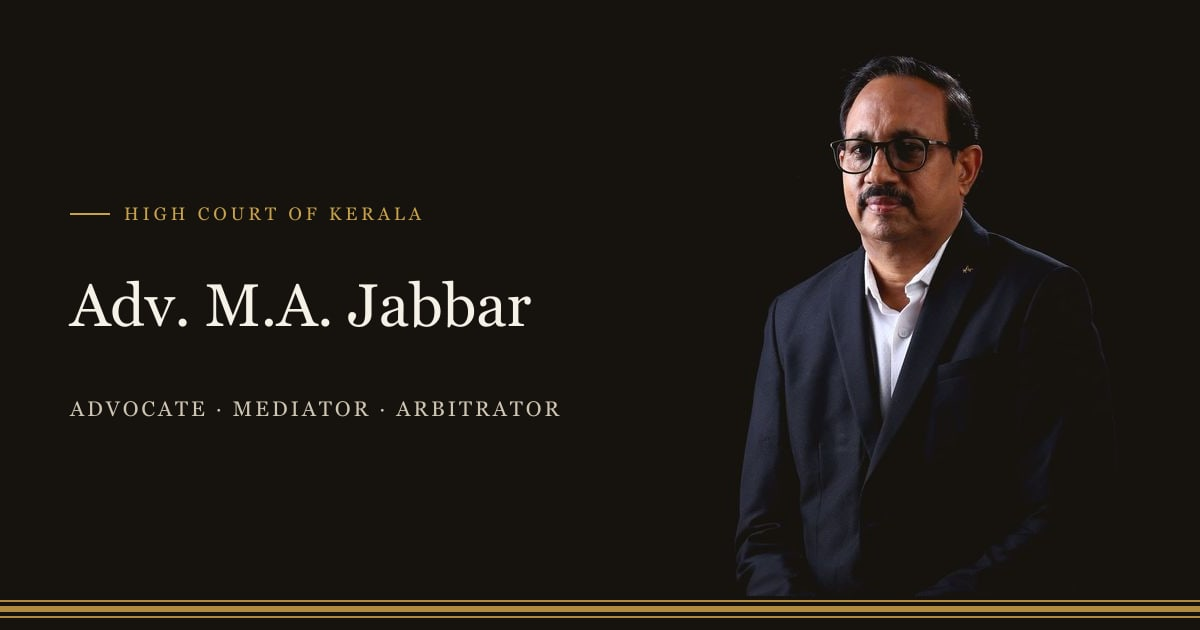
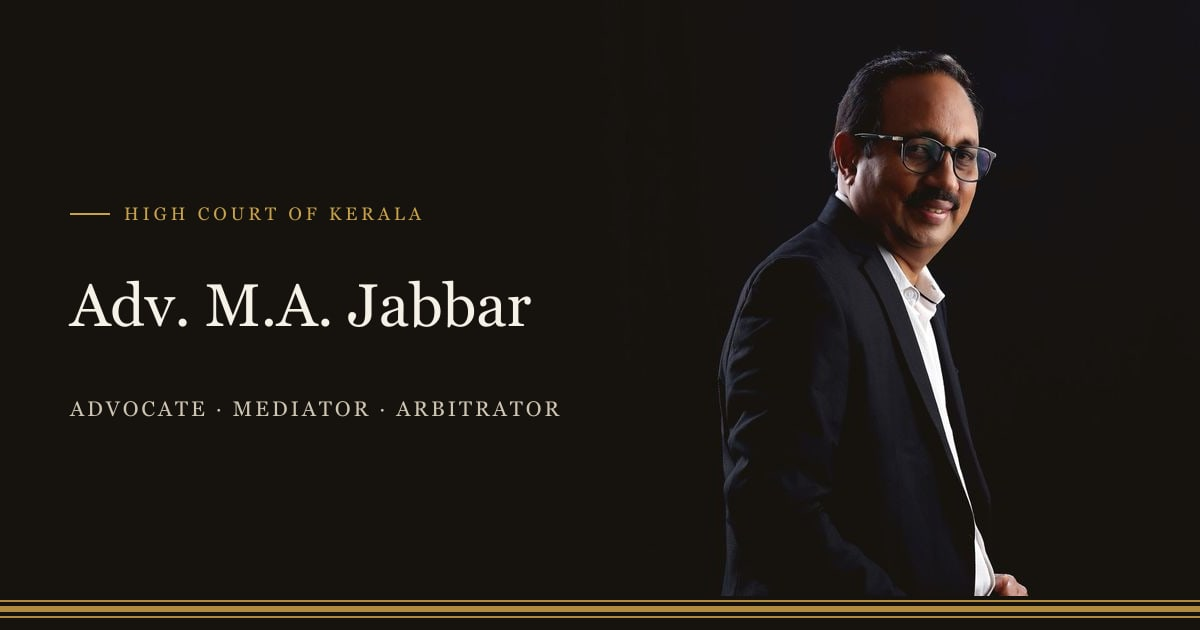
Restore footer disclaimer, swap photos uncropped, add second quote band
Footer disclaimer
- Footer disclaimer box back on (SHOW_FOOTER_DISCLAIMER = true) with the
  client's wording: "This website is for informational purposes only as
  per BCI rules. No advertisement or solicitation. Emblems/logos of
  Government of India are not used."

Photos
- Hero now 6.jpeg (seated, sideways); "Public service & social
  engagement" now 3.jpeg in black and white
- Photos are never cropped: images keep their original proportions and
  every photo box sizes itself from the image (height: auto); the image
  script no longer crops
- Image filenames include a content hash so a changed photo always gets
  a new URL (no stale browser / Next.js image cache)

Second quote band
- New maroon quote band after Areas of Practice, mirrored layout (photo
  on the right), using 2.jpeg: "Behind every dispute are people,
  perspectives, and interests..."
- Shared QuoteBlock type; Sanity schema, GROQ query and seed updated

Changed region(s): [[0.5858, 0.0603, 0.8942, 0.9651], [0.8017, 0.8444, 0.8633, 0.9651]]

diff --git a/src/app/(site)/globals.css b/src/app/(site)/globals.css
@@ -120,11 +120,12 @@ p { margin: 0; }
 .tablist button[aria-selected="true"] { background: var(--maroon); color: var(--paper); }
 .tabnav__toggle { display: grid; place-items: center; background: transparent; border: 1px solid var(--ink-2); }
 
-/* The portrait's backdrop is pre-blended to --ink (scripts/make-images.mjs), so the
+/* Photos are never cropped: every img keeps its natural proportions (height: auto).
+   The portrait's backdrop is pre-blended to --ink (scripts/make-images.mjs), so the
    photo has no visible edge: it sits on the kasavu band and in front of the gold frame. */
-.hero__photo { position: relative; width: 480px; aspect-ratio: 1400 / 1790; flex-shrink: 0; align-self: flex-end; margin-bottom: -64px; }
+.hero__photo { position: relative; width: 480px; flex-shrink: 0; align-self: flex-end; margin-bottom: -64px; }
 .hero__photo::before { content: ''; position: absolute; inset: -26px -26px 90px 26px; border: 1px solid var(--gold); }
-.hero__photo img { position: relative; width: 100%; height: 100%; object-fit: cover; }
+.hero__photo img { position: relative; width: 100%; height: auto; }
 .badge { position: absolute; left: -28px; bottom: 120px; padding: 16px 22px; background: var(--maroon); color: var(--paper); }
 .badge small { display: block; font-size: 12px; letter-spacing: .2em; text-transform: uppercase; color: var(--cream); }
 .badge strong { font: 500 20px var(--f-display); }
@@ -147,9 +148,9 @@ p { margin: 0; }
 .about__sub { font-size: 18px; color: var(--muted); margin-top: 8px; }
 .about__bio { display: grid; grid-template-columns: 1fr 1fr; gap: 16px 40px; font-size: 17px; line-height: 1.7; color: var(--ink-2); }
 .about__side { grid-column: 3; display: flex; flex-direction: column; gap: 38px; }
-.portrait { position: relative; aspect-ratio: 4 / 5; }
+.portrait { position: relative; }
 .portrait::before { content: ''; position: absolute; inset: 14px -14px -14px 14px; border: 1px solid var(--kasavu); }
-.portrait img { position: relative; width: 100%; height: 100%; object-fit: cover; object-position: 50% 25%; }
+.portrait img { position: relative; width: 100%; height: auto; }
 .facts { border-top: 2px solid var(--ink); }
 .fact { padding: 16px 0; border-bottom: 1px solid var(--line); }
 .fact dt { font-size: 12px; letter-spacing: .2em; text-transform: uppercase; color: var(--gold-dk); }
@@ -188,12 +189,16 @@ p { margin: 0; }
 /* Quote */
 .quote { background: var(--maroon); padding-block: 96px; }
 .quote__inner { display: flex; align-items: center; justify-content: center; gap: 80px; }
-.quote__photo { position: relative; width: 320px; aspect-ratio: 4 / 5; flex-shrink: 0; }
+.quote__photo { position: relative; width: 320px; flex-shrink: 0; }
 .quote__photo::before { content: ''; position: absolute; inset: -18px 18px 18px -18px; border: 1px solid var(--gold); }
-.quote__photo img { position: relative; width: 100%; height: 100%; object-fit: cover; }
+.quote__photo img { position: relative; width: 100%; height: auto; }
 .quote blockquote { max-width: 720px; margin: 0; display: flex; flex-direction: column; align-items: flex-start; gap: 28px; }
 .quote p { font: italic 500 clamp(22px, 2.4vw, 34px)/1.45 var(--f-display); color: var(--paper); }
 .quote cite { font-style: normal; font-size: 13px; letter-spacing: .24em; text-transform: uppercase; color: var(--cream); }
+/* Second quote band: photo on the right, frame mirrored; landscape photo gets a wider box. */
+.quote--reverse .quote__inner { flex-direction: row-reverse; }
+.quote--reverse .quote__photo { width: 400px; }
+.quote--reverse .quote__photo::before { inset: -18px -18px 18px 18px; }
 
 /* Practice grid */
 .practice { display: grid; grid-template-columns: repeat(4, 1fr); gap: 1px; background: var(--line-2); border: 1px solid var(--line-2); }
@@ -224,9 +229,9 @@ p { margin: 0; }
 
 /* Beyond */
 .beyond { display: flex; gap: 80px; align-items: center; }
-.beyond__photo { position: relative; width: 460px; height: 580px; flex-shrink: 0; }
+.beyond__photo { position: relative; width: 460px; flex-shrink: 0; }
 .beyond__photo::before { content: ''; position: absolute; inset: -22px 22px 22px -22px; border: 1px solid var(--kasavu); }
-.beyond__photo img { position: relative; width: 100%; height: 100%; object-fit: cover; object-position: 50% 55%; }
+.beyond__photo img { position: relative; width: 100%; height: auto; }
 .beyond__copy { display: flex; flex-direction: column; gap: 24px; }
 .beyond__copy > p { font-size: 17px; line-height: 1.7; color: var(--ink-2); }
 .timeline { list-style: none; margin: 0; padding: 0; border-top: 1px solid var(--line-2); }
@@ -293,6 +298,8 @@ html[data-disclaimer="pending"] body { overflow: hidden; }
   .hero .container { gap: 48px; }
   .hero__photo { width: 380px; }
   .tabcard { width: auto; flex: 1; }
+  .quote__inner { gap: 56px; }
+  .quote--reverse .quote__photo { width: 340px; }
   .roles__body { grid-template-columns: 270px minmax(0, 1fr); }
   .roles__panel { padding: 36px 32px; }
   .roles__cols { grid-template-columns: minmax(0, 1fr); gap: 28px; }
@@ -387,6 +394,9 @@ html[data-disclaimer="pending"] body { overflow: hidden; }
   .quote__inner { flex-direction: column; align-items: flex-start; gap: 40px; }
   .quote__photo { width: 200px; margin-left: 12px; }
   .quote__photo::before { inset: -12px 12px 12px -12px; }
+  .quote--reverse .quote__inner { flex-direction: column; }
+  .quote--reverse .quote__photo { width: 260px; margin-left: 0; }
+  .quote--reverse .quote__photo::before { inset: -12px -12px 12px 12px; }
   .quote blockquote { gap: 20px; }
   .quote cite { font-size: 11px; }
 
@@ -410,7 +420,7 @@ html[data-disclaimer="pending"] body { overflow: hidden; }
   .steps p { font-size: 15px; }
 
   .beyond { flex-direction: column; align-items: stretch; gap: 22px; }
-  .beyond__photo { width: 100%; height: 420px; order: 1; }
+  .beyond__photo { width: 100%; order: 1; }
   .beyond__photo::before { display: none; }
   .beyond__copy { display: contents; }
   .beyond__copy > .eyebrow, .beyond__copy > h2 { order: 0; }

diff --git a/src/content/site.ts b/src/content/site.ts
@@ -56,11 +56,10 @@ export const siteContent: SiteContent = {
       heading: 'Turning conflict\ninto *cooperation*,\nthrough dialogue.',
       lead: 'Advocate at the High Court of Kerala. IMI and IICA certified mediator, corporate mediator with the Ministry of Corporate Affairs, and empanelled arbitrator with NSE and BSE.',
       image: {
-        src: '/images/hero-portrait-seated.jpg',
+        src: '/images/hero-portrait-seated-side-48cea9e5.jpg',
         alt: 'Adv. M.A. Jabbar',
         width: 1400,
-        height: 1790,
-        position: '50% 30%',
+        height: 1800,
       },
       badge: { label: 'Certified Mediator', value: 'IMI · IICA' },
       highlights: [
@@ -82,11 +81,10 @@ export const siteContent: SiteContent = {
         'He holds an LL.M. and an LL.B. from Mahatma Gandhi University, Kottayam, and a Post Graduate Diploma in Alternative Dispute Resolution from NALSAR University of Law, Hyderabad. His approach to mediation rests on empathy, dialogue and understanding.',
       ],
       portrait: {
-        src: '/images/about-portrait-headshot-left.jpg',
+        src: '/images/about-portrait-headshot-left-607a508f.jpg',
         alt: 'Portrait of Adv. Abdul Jabbarudeen M.',
         width: 1200,
         height: 986,
-        position: '48% 30%',
       },
       facts: [
         { label: 'Practice', value: 'High Court of Kerala' },
@@ -183,11 +181,10 @@ export const siteContent: SiteContent = {
       text: 'As India continues to build its physical infrastructure, it must also strengthen its culture of communication and collaboration — making mediation an essential pillar for peace, progress and sustainable development.',
       attribution: 'Adv. M.A. Jabbar',
       image: {
-        src: '/images/quote-portrait-hands-on-hips.jpg',
+        src: '/images/quote-portrait-hands-on-hips-2f24cac2.jpg',
         alt: 'Adv. M.A. Jabbar',
-        width: 800,
-        height: 1000,
-        position: '50% 30%',
+        width: 1000,
+        height: 1037,
       },
     },
 
@@ -205,6 +202,17 @@ export const siteContent: SiteContent = {
         { title: 'Legal Drafting & Opinions', description: 'Pleadings, petitions, affidavits, legal submissions and legal opinions.' },
         { title: 'Contract Review & Compliance', description: 'Review of agreements and regulatory requirements to identify legal issues and risks.' },
       ],
+    },
+
+    practiceQuote: {
+      text: 'Behind every dispute are people, perspectives, and interests. Mediation brings them together in dialogue, creating space for understanding and a path towards resolution.',
+      attribution: 'Adv. M.A. Jabbar',
+      image: {
+        src: '/images/quote2-portrait-headshot-front-104fbce5.jpg',
+        alt: 'Adv. M.A. Jabbar',
+        width: 1000,
+        height: 787,
+      },
     },
 
     panels: {
@@ -239,11 +247,10 @@ export const siteContent: SiteContent = {
       heading: 'Public service &\nsocial engagement',
       body: 'Alongside his legal work, Adv. M.A. Jabbar is a UN Sustainable Development Goals campaigner and human rights activist, and founded a school in Pathanapuram. From 1989 to 2018 he served the Government of Kerala as District Ophthalmic Co-ordinator under the National Programme for Control of Blindness.',
       image: {
-        src: '/images/bw-portrait-seated-side.jpg',
+        src: '/images/bw-portrait-seated-ba7f1e8f.jpg',
         alt: 'Black-and-white portrait of Adv. M.A. Jabbar',
         width: 1200,
-        height: 1543,
-        position: '40% 35%',
+        height: 1534,
       },
       timeline: [
         { label: 'Delegate — United Nations Global Meeting on Sustainable Development, Bonn, Germany', year: '2019' },
@@ -281,7 +288,7 @@ export const siteContent: SiteContent = {
       'The chambers are not responsible for any action taken based on the content of this website.',
     ],
     footerText:
-      'As per the rules of the Bar Council of India, advocates are not permitted to solicit work or advertise. This website only provides information about Adv. M.A. Jabbar (Abdul Jabbarudeen M.) and the areas of practice. It is not an advertisement, solicitation or legal advice. Using this website or contacting the chambers through it does not create an advocate–client relationship.',
+      'This website is for informational purposes only as per BCI rules. No advertisement or solicitation. Emblems/logos of Government of India are not used.',
   },
 
   // TODO: final wording reviewed by the advocate (DPDP Act, 2023 — the form collects personal data)

diff --git a/sanity/schemaTypes/homePage.ts b/sanity/schemaTypes/homePage.ts
@@ -4,6 +4,20 @@ import { HEADING_HELP, imageField, labelValueMember, titleTextMember } from './f
 const RULE_36 =
   'Bar Council of India Rule 36: state facts only. No testimonials, results, ratings, or words like "best", "top", "leading", "expert".';
 
+/** A maroon quote band: text, attribution and a photo (shown uncropped). */
+const quoteField = (name: string, title: string, group: string) =>
+  defineField({
+    name,
+    title,
+    type: 'object',
+    group,
+    fields: [
+      defineField({ name: 'text', type: 'text', rows: 4, validation: (r) => r.required() }),
+      defineField({ name: 'attribution', type: 'string' }),
+      imageField('image', 'Photo', 'Shown beside the quote at its full size — the photo is never cropped.'),
+    ],
+  });
+
 export const homePage = defineType({
   name: 'homePage',
   title: 'Home page',
@@ -89,16 +103,7 @@ export const homePage = defineType({
         }),
       ],
     }),
-    defineField({
-      name: 'quote',
-      type: 'object',
-      group: 'about',
-      fields: [
-        defineField({ name: 'text', type: 'text', rows: 4 }),
-        defineField({ name: 'attribution', type: 'string' }),
-        imageField('image', 'Photo', 'Shown beside the quote. Portrait (4:5) crop works best.'),
-      ],
-    }),
+    quoteField('quote', 'Quote (after About)', 'about'),
     defineField({
       name: 'practice',
       title: 'Areas of practice',
@@ -125,6 +130,7 @@ export const homePage = defineType({
         }),
       ],
     }),
+    quoteField('practiceQuote', 'Quote (after Areas of Practice)', 'practice'),
     defineField({
       name: 'panels',
       title: 'Panels & certifications',

diff --git a/src/lib/types.ts b/src/lib/types.ts
@@ -50,6 +50,9 @@ export type SiteSettings = {
 
 export type Highlight = { title: string; text: string };
 
+/** A maroon quote band: the advocate's words with a photo. */
+export type QuoteBlock = { text: string; attribution: string; image: ImageRef };
+
 /** One role in the About section's "Roles in detail" tabs. */
 export type Role = {
   title: string;
@@ -76,7 +79,10 @@ export type HomePage = {
     facts: { label: string; value: string }[];
     roles: { eyebrow: string; heading: string; items: Role[] };
   };
-  quote: { text: string; attribution: string; image: ImageRef };
+  /** Quote band after About. */
+  quote: QuoteBlock;
+  /** Second quote band, after Areas of Practice. */
+  practiceQuote: QuoteBlock;
   practice: {
     eyebrow: string;
     heading: string;

diff --git a/src/components/sections/Quote.tsx b/src/components/sections/Quote.tsx
@@ -1,9 +1,17 @@
 import Image from 'next/image';
-import type { HomePage } from '@/lib/types';
+import type { QuoteBlock } from '@/lib/types';
 
-export function Quote({ quote }: { quote: HomePage['quote'] }) {
+type Props = {
+  quote: QuoteBlock;
+  /** Accessible name for the section. */
+  label: string;
+  /** Photo on the right instead of the left (desktop). */
+  reverse?: boolean;
+};
+
+export function Quote({ quote, label, reverse = false }: Props) {
   return (
-    <section className="quote" aria-label="Philosophy">
+    <section className={reverse ? 'quote quote--reverse' : 'quote'} aria-label={label}>
       <div className="container quote__inner">
         {quote.image.src && (
           <div className="quote__photo">

diff --git a/src/lib/disclaimer.ts b/src/lib/disclaimer.ts
@@ -10,8 +10,7 @@ export const DISCLAIMER_KEY = 'ajm_disclaimer_agreed';
 export const SHOW_ENTRY_DISCLAIMER = false;
 
 /**
- * Show the disclaimer text box in the footer.
- * Disabled at the owner's request (Oct 2026). The footer "Disclaimer" link remains.
- * Set to true to restore it.
+ * Show the disclaimer text box in the footer (text: `disclaimer.footerText`).
+ * Set to false to hide it; the footer "Disclaimer" link stays either way.
  */
-export const SHOW_FOOTER_DISCLAIMER = false;
+export const SHOW_FOOTER_DISCLAIMER = true;

diff --git a/src/app/(site)/page.tsx b/src/app/(site)/page.tsx
@@ -47,8 +47,9 @@ export default async function HomePage() {
         <Hero hero={home.hero} />
         <Kasavu />
         <About about={home.about} />
-        <Quote quote={home.quote} />
+        <Quote quote={home.quote} label="Philosophy" />
         <Practice practice={home.practice} />
+        <Quote quote={home.practiceQuote} label="On mediation" reverse />
         <Panels panels={home.panels} />
         <Process process={home.process} />
         <Beyond beyond={home.beyond} />

diff --git a/src/components/sections/Footer.tsx b/src/components/sections/Footer.tsx
@@ -38,7 +38,7 @@ export function Footer({ settings, disclaimer }: { settings: SiteSettings; discl
             </div>
           </div>
         </div>
-        {/* Footer disclaimer (BCI Rule 36) — switched off via SHOW_FOOTER_DISCLAIMER. */}
+        {/* Footer disclaimer (BCI Rule 36) — on/off via SHOW_FOOTER_DISCLAIMER. */}
         {SHOW_FOOTER_DISCLAIMER && (
           <div className="footer__legal">
             <strong>Disclaimer:</strong> {disclaimer.footerText}

diff --git a/scripts/seed-sanity.ts b/scripts/seed-sanity.ts
@@ -67,6 +67,7 @@ async function main() {
         },
       },
       quote: { ...home.quote, image: await image(home.quote.image) },
+      practiceQuote: { ...home.practiceQuote, image: await image(home.practiceQuote.image) },
       practice: { ...home.practice, areas: members('area', home.practice.areas) },
       panels: home.panels,
       process: { ...home.process, steps: members('step', home.process.steps) },

diff --git a/src/lib/sanity/queries.ts b/src/lib/sanity/queries.ts
@@ -25,6 +25,7 @@ export const SITE_QUERY = /* groq */ `{
     "about": about{ ..., ${image('portrait')} },
     "quote": quote{ ..., ${image('image')} },
     practice,
+    "practiceQuote": practiceQuote{ ..., ${image('image')} },
     panels,
     process,
     "beyond": beyond{ ..., ${image('image')} },

diff --git a/CLAUDE.md b/CLAUDE.md
@@ -49,8 +49,9 @@ Indian advocates may not advertise or solicit work. The site may only state fact
 - Entry disclaimer modal: the first-visit pop-up is DISABLED at the owner's request (Sept 2026) via
   `SHOW_ENTRY_DISCLAIMER = false` in `src/lib/disclaimer.ts`. Set it to `true` to restore. The modal still opens
   from the footer "Disclaimer" link (agreement stored in localStorage key `ajm_disclaimer_agreed`).
-- Footer disclaimer text box: DISABLED at the owner's request (Oct 2026) via `SHOW_FOOTER_DISCLAIMER = false` in
-  `src/lib/disclaimer.ts`. Set it to `true` to restore. The footer "Disclaimer" link (opens the pop-up) remains.
+- KEEP the footer disclaimer box (`SHOW_FOOTER_DISCLAIMER = true` in `src/lib/disclaimer.ts`). Wording (client-supplied,
+  Oct 2026): "This website is for informational purposes only as per BCI rules. No advertisement or solicitation.
+  Emblems/logos of Government of India are not used." The footer "Disclaimer" link (opens the pop-up) also remains.
 - KEEP the form consent checkbox.
 
 ## Content sources
@@ -62,13 +63,15 @@ Indian advocates may not advertise or solicit work. The site may only state fact
 - Do NOT publish the residential address (Pattazhy Vadakkekara) — privacy.
 - Do NOT add the Govt of India emblem next to the MCA mediator appointment, even if the client asks.
 - Photos: originals in `source-images/` (client's studio set, Sept 2026). `node scripts/make-images.mjs` builds
-  outputs named after their source (so a swap always changes the URL — avoids stale image caches):
-  - hero ← `portrait-seated.jpg` (client's "3.jpeg"; backdrop blended to ink so it sits seamlessly on the dark hero) + `og.jpg`
+  outputs named `<prefix>-<source>-<content hash>.jpg` (any change gets a new URL — avoids stale image caches):
+  - hero ← `portrait-seated-side.jpg` (client's "6.jpeg"; backdrop blended to ink so it sits seamlessly on the dark hero) + `og.jpg`
   - About portrait ← `portrait-headshot-left.jpg` (client's "1.jpeg"), colour
-  - quote band (maroon) ← `portrait-hands-on-hips.jpg` (client's "5.jpeg"), 4:5 crop
-  - "Beyond the Courtroom" ← `portrait-seated-side.jpg` (client's "6.jpeg"), black and white
-  - `portrait-headshot-front.jpg` (client's "2.jpeg") is currently unused
-  After running it, update the image paths and sizes in `src/content/site.ts`.
+  - quote band (maroon) ← `portrait-hands-on-hips.jpg` (client's "5.jpeg"), colour
+  - "Public service & social engagement" ← `portrait-seated.jpg` (client's "3.jpeg"), black and white
+  - second quote band (after Areas of Practice, photo on the right) ← `portrait-headshot-front.jpg` (client's "2.jpeg"), colour
+  After running it, copy the printed paths and sizes into `src/content/site.ts`.
+  Photos are never cropped (client requirement): outputs keep the original proportions and every photo box
+  sizes itself from the image (`height: auto`). Do not reintroduce fixed heights/aspect ratios or object-fit crops.
   A new hero photo uploaded in the Studio must be prepared the same way. Old photos (chambers, Edinburgh, blue-background
   portrait) are no longer used; copies remain in `_static/assets/img/`.
 
